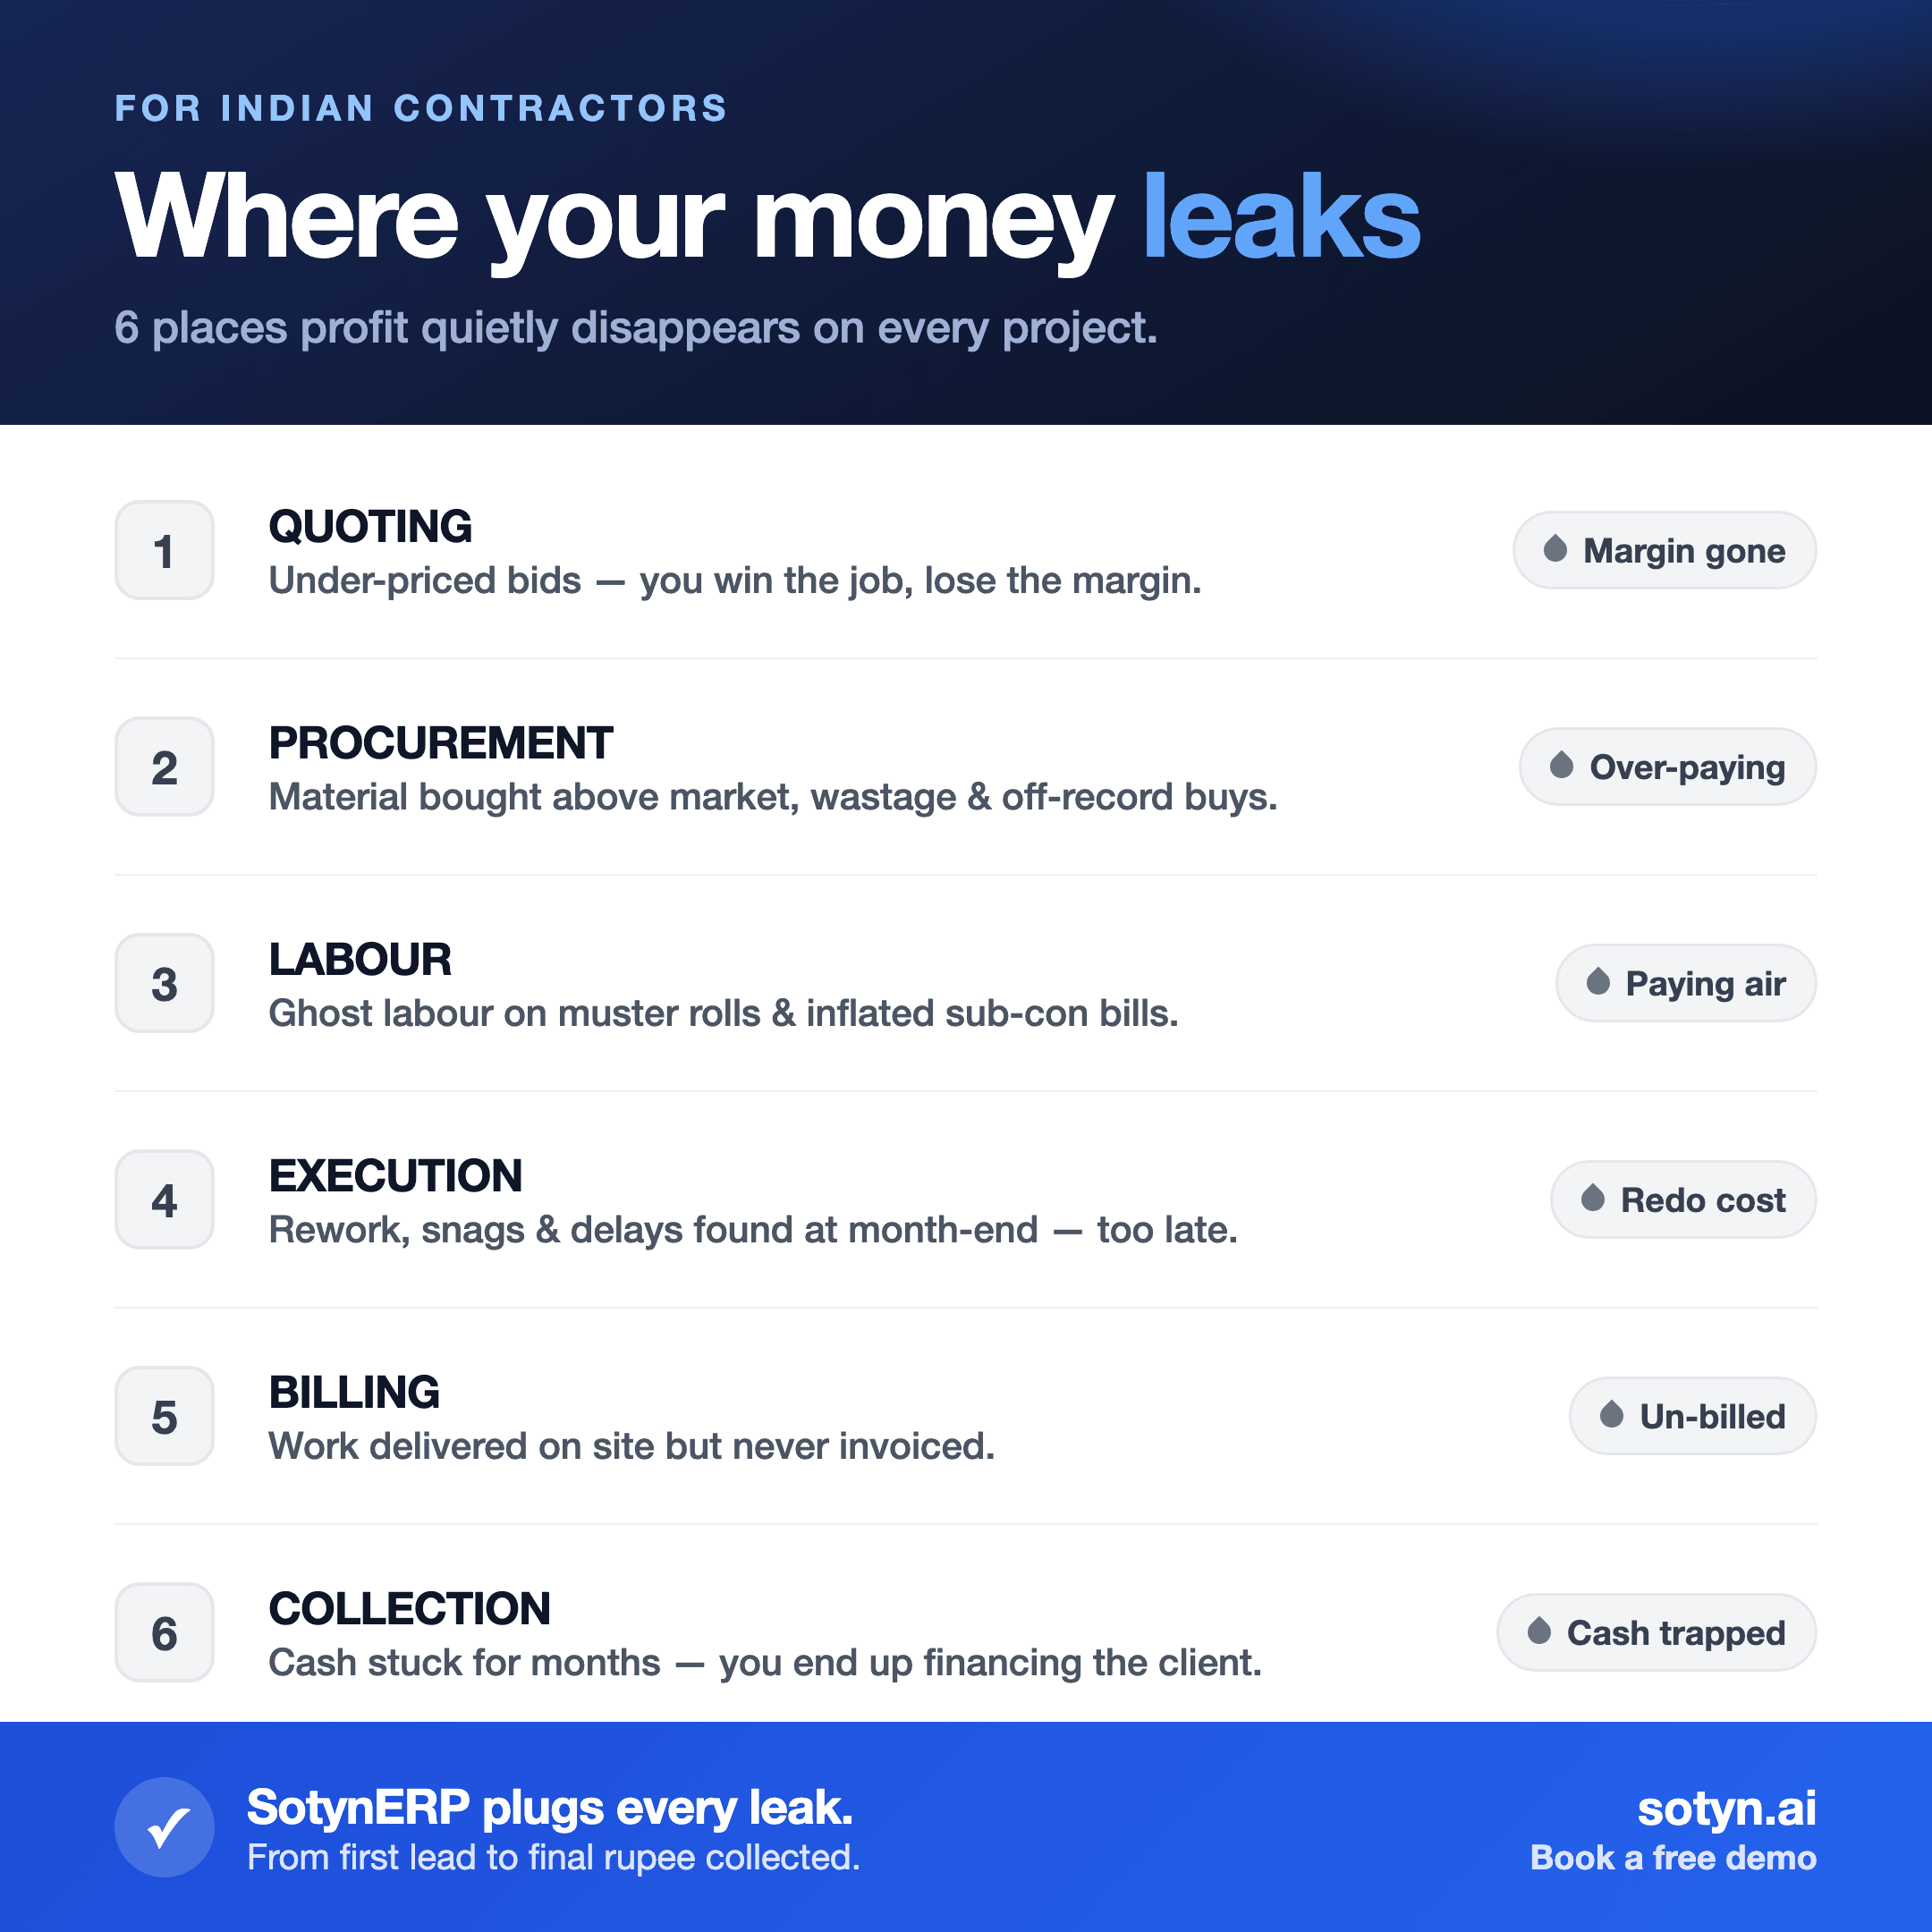
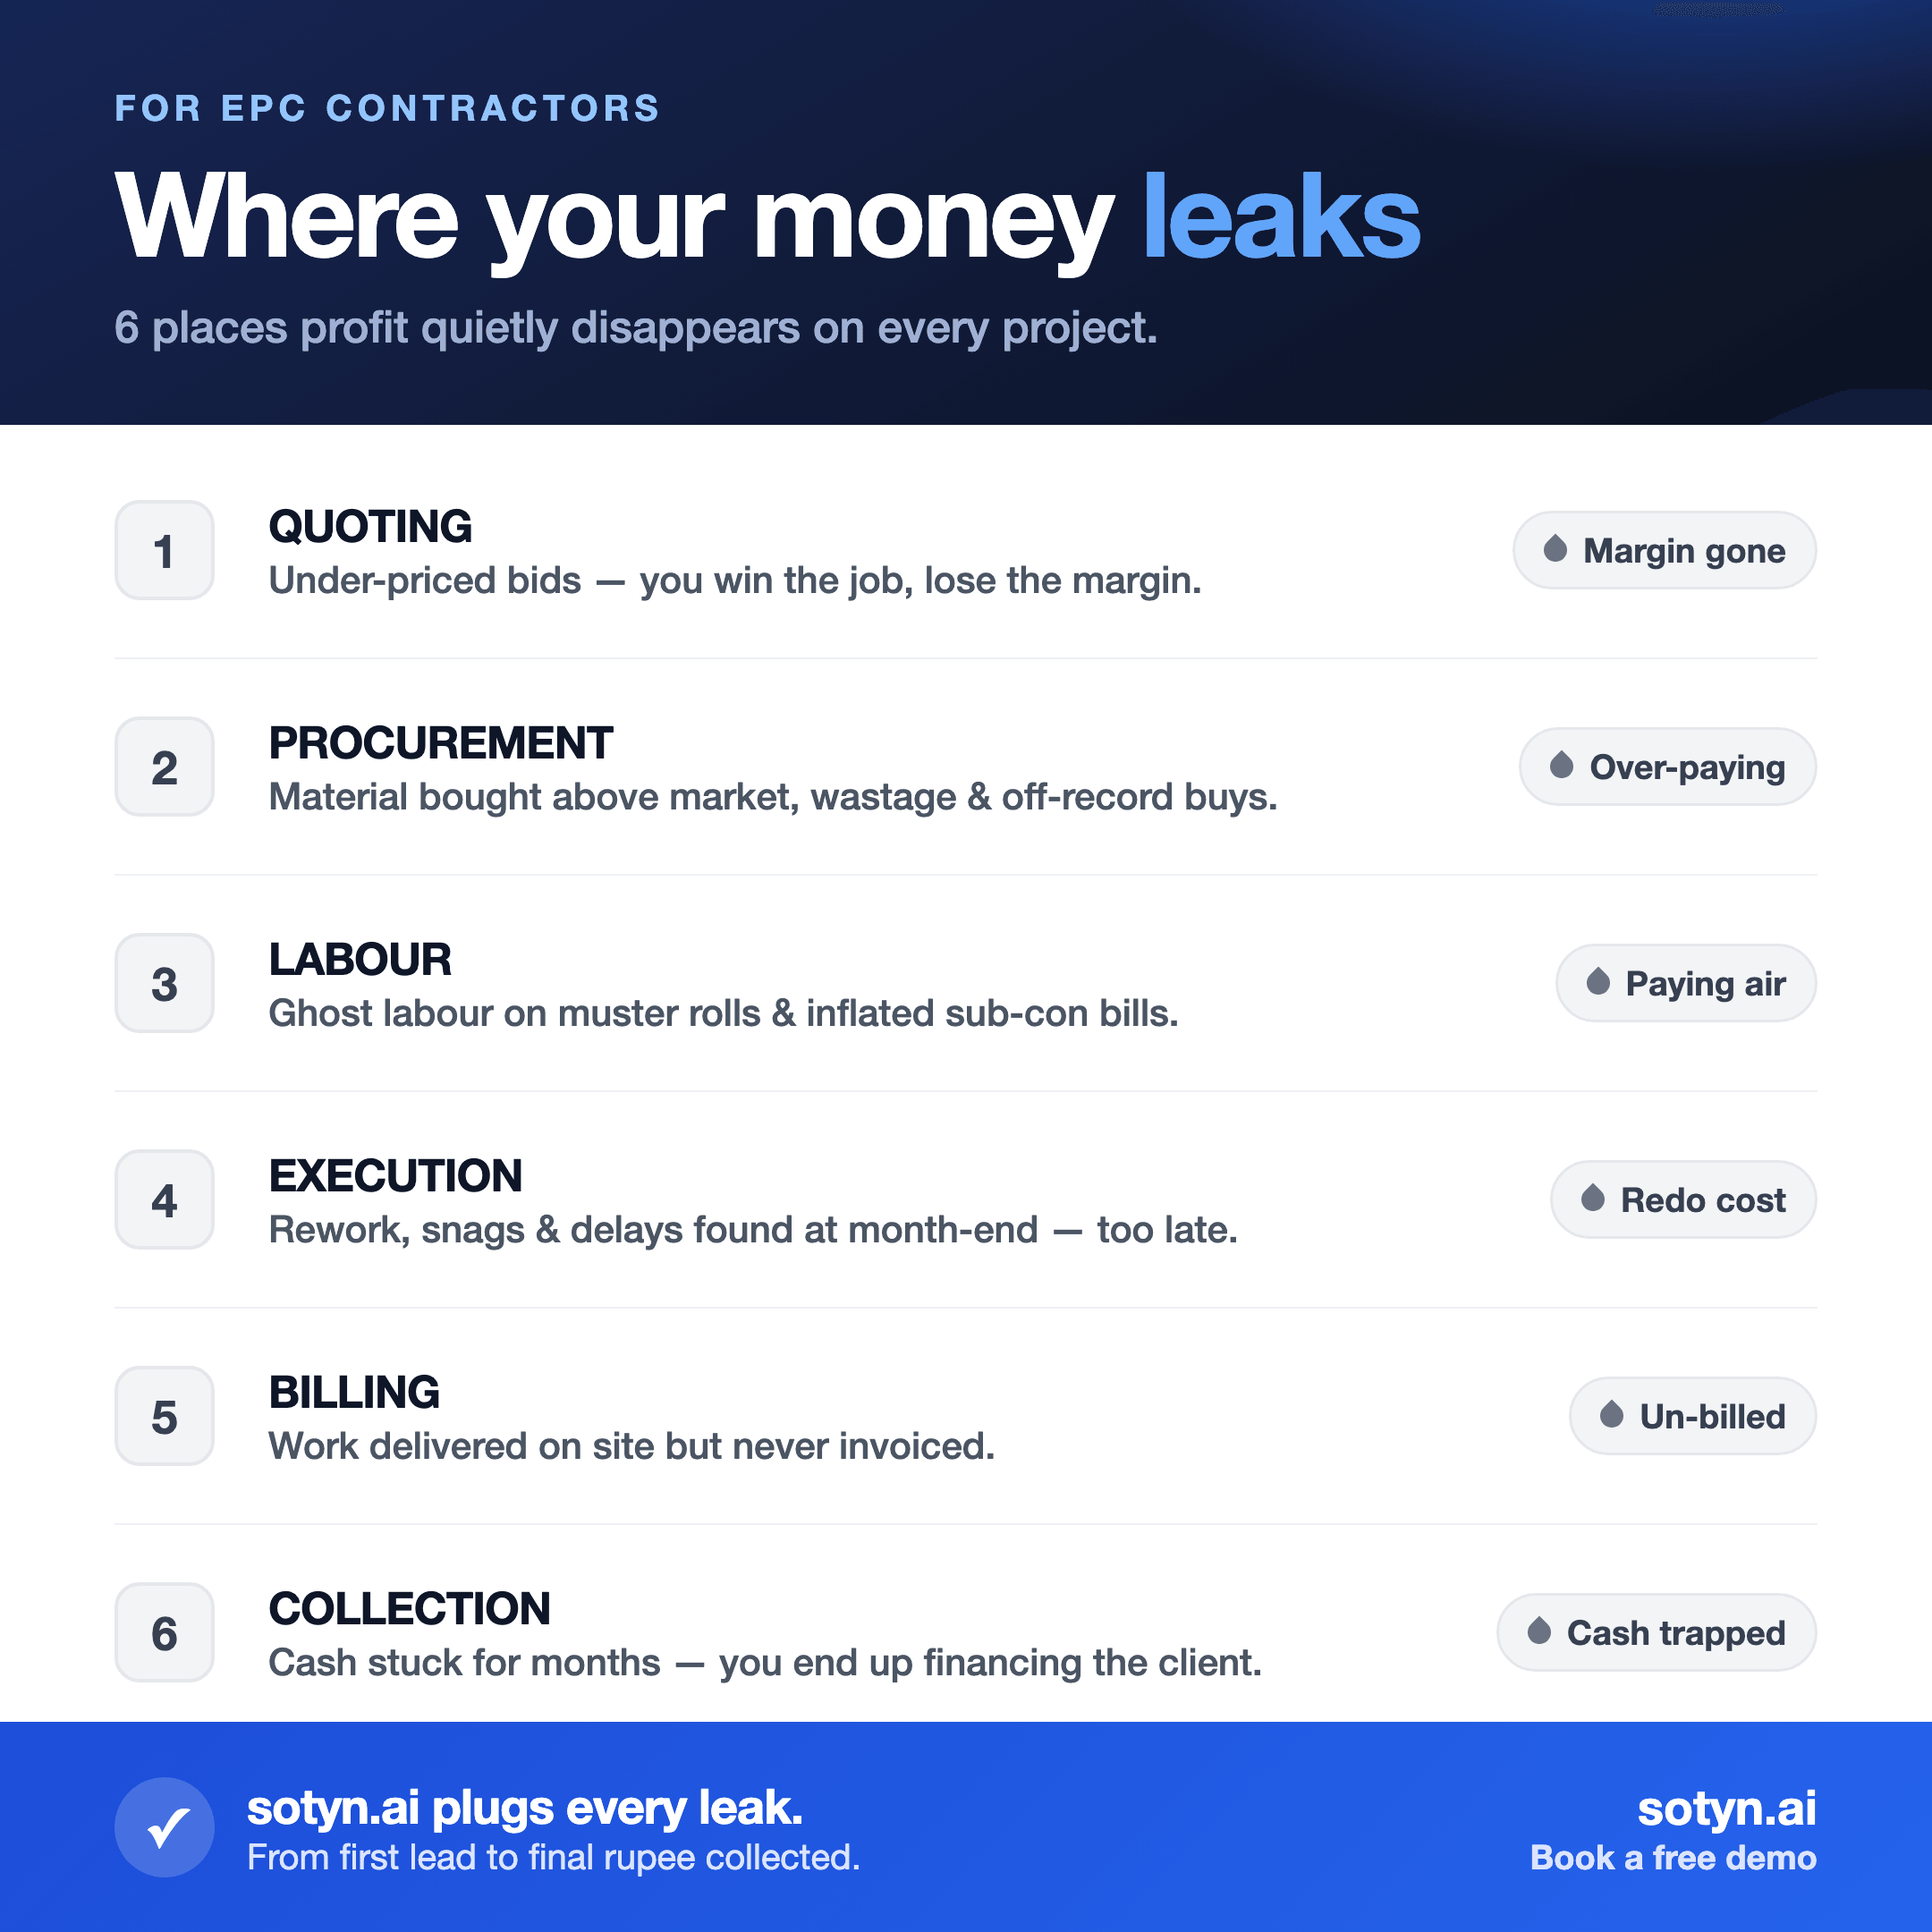
Rebrand to sotyn.ai, EPC-only, AI-first positioning
- Product renamed SotynERP → sotyn.ai everywhere (wordmark, OG image,
  infographic, robots, favicon, schema, copy)
- Audience narrowed to EPC contractors only (hero, FAQ, forms, webinar,
  about, footer, structured data)
- AI-first focus: hero "AI-powered", new "Built AI-first" section (AI
  auto-quotation, leak alerts, daily briefing, ask-in-plain-language),
  tagline + schema updated

Changed region(s): [[0.1241, 0.8995, 0.4343, 0.9616], [0.1241, 0.031, 0.3722, 0.062]]

diff --git a/src/config/site.ts b/src/config/site.ts
@@ -10,12 +10,12 @@
 
 export const SITE = {
   // ── Brand ────────────────────────────────────────────────────────────────
-  name: "SotynERP",
-  legalName: "SotynERP",
-  brandShort: "SotynERP",
-  tagline: "The ERP built by contractors, for contractors",
+  name: "sotyn.ai",
+  legalName: "sotyn.ai",
+  brandShort: "sotyn.ai",
+  tagline: "The AI-powered ERP built only for EPC contractors",
   promise:
-    "See exactly where your money is leaking — from quote to site to collection — and plug it.",
+    "AI that shows you exactly where your money is leaking — from quote to site to collection — and helps you plug it.",
   parentCompany: "Secured Engineers Pvt. Ltd.",
 
   // ── Domain / URL ─────────────────────────────────────────────────────────
@@ -57,7 +57,7 @@ export const SITE = {
   pricing: {
     currency: "₹",
     anchor:
-      "Comparable construction ERPs cost ₹3–10 lakh a year. SotynERP is a fraction of that — because we built it to run our own business, not to milk customers.",
+      "Comparable construction ERPs cost ₹3–10 lakh a year. sotyn.ai is a fraction of that — because we built it to run our own business, not to milk customers.",
     guarantee: "30-day money-back guarantee",
     guaranteeNote:
       "Use it for 30 days. If it doesn't show you where you're leaking money, we refund every rupee — no questions asked.",
@@ -65,7 +65,7 @@ export const SITE = {
       {
         name: "Founding Member",
         badge: "Limited · price locked for life",
-        blurb: "The lowest price SotynERP will ever offer.",
+        blurb: "The lowest price sotyn.ai will ever offer.",
         price: "10,000",
         per: "/mo",
         billed: "billed annually · ₹1,20,000/yr",
@@ -123,18 +123,18 @@ export const SITE = {
   // date/time and (optionally) the live link.
   webinar: {
     kicker: "Free live masterclass for contractors",
-    title: "The Contractor's Profit Masterclass",
+    title: "The EPC Contractor's Profit Masterclass",
     subtitle:
-      "How to stop losing money on every project — and build a contracting business that runs without you.",
+      "How to stop losing money on every project — and build an EPC business that runs without you.",
     host: "Er. Ankur Kaplesh",
     hostTitle:
-      "Business Coach & Founder, SotynERP · 14 yrs · 535+ projects · Author of 2 books",
+      "Business Coach & Founder, sotyn.ai · 14 yrs · 535+ projects · Author of 2 books",
     when: "Every Saturday · 7:00 PM IST", // ⚠️ set your real schedule
     duration: "60 minutes + live Q&A",
     platform: "Live on Zoom · 100% free",
     seats: "Only 100 seats per session",
     forWho:
-      "Contracting & EPC business owners (₹2–100 Cr) — MEPF, solar, civil & interiors.",
+      "EPC contractors & firms (₹2–100 Cr) — MEP, solar, civil, industrial & turnkey EPC.",
     learn: [
       "The 6 places every contractor silently leaks money — and how to plug each one",
       "The 4 numbers you must see every week to protect your margin",
@@ -162,7 +162,7 @@ export const SITE = {
 // Convenience helpers ────────────────────────────────────────────────────────
 export const waLink = (msg = "") =>
   `https://wa.me/${SITE.whatsapp}?text=${encodeURIComponent(
-    msg || `Hi SotynERP, I run a contracting business and I'd like a demo.`
+    msg || `Hi sotyn.ai, I run a contracting business and I'd like a demo.`
   )}`;
 
 export const telLink = `tel:${SITE.phoneHref}`;

diff --git a/README.md b/README.md
@@ -1,6 +1,6 @@
-# SotynERP — Marketing Website
+# sotyn.ai — Marketing Website
 
-Lead-generation marketing site for **SotynERP**, the all-in-one ERP for MEPF, solar,
+Lead-generation marketing site for **sotyn.ai**, the all-in-one ERP for MEPF, solar,
 civil & EPC contractors across India — built and run by Secured Engineers Pvt. Ltd.
 
 Built with **Astro** (static, fast, SEO-friendly). Same proven stack as the Secured